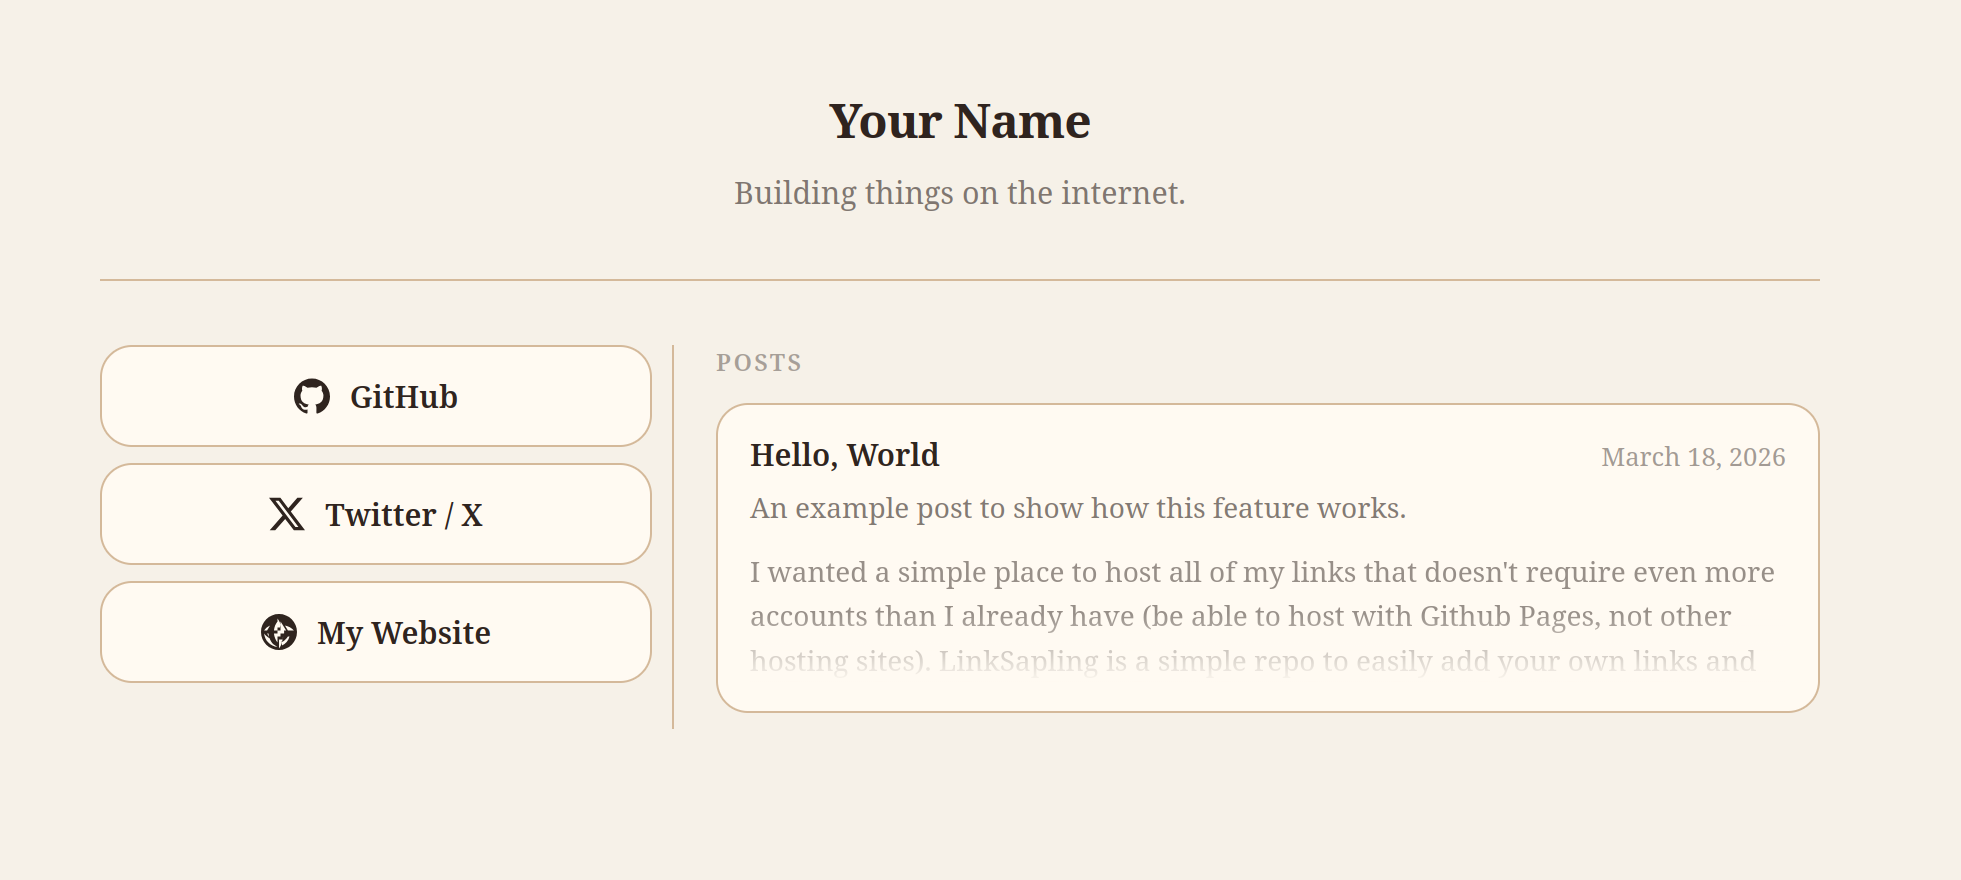
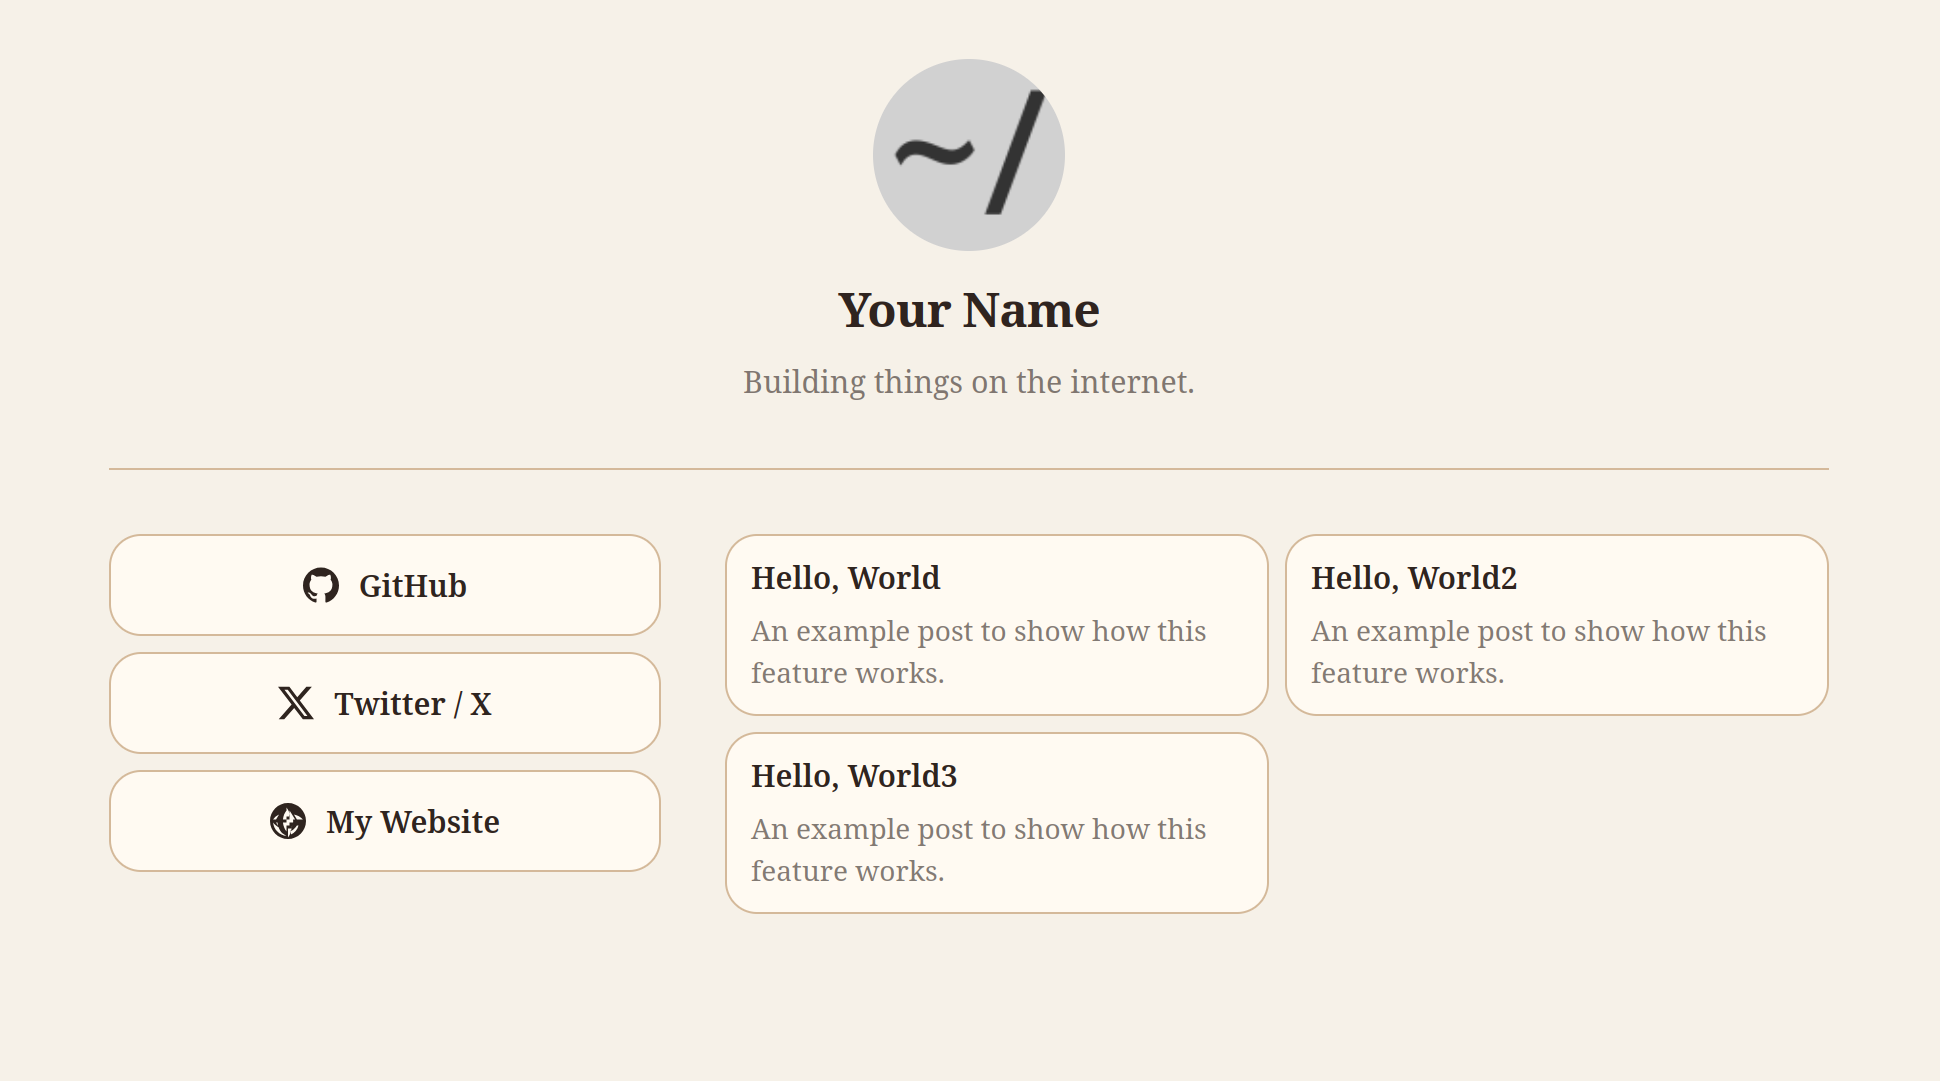
documentation update for layouts

diff --git a/CHANGELOG.md b/CHANGELOG.md
@@ -32,3 +32,11 @@ and this project adheres to [Semantic Versioning](https://semver.org/spec/v2.0.0
 - Google Fonts integration: load any font by name or fall back to system stack
 - Bundled inline SVG icons: github, twitter, instagram, linkedin, youtube, twitch, discord, bluesky, email, globe, rss
 - Avatar support: copies image to `dist/` for self-contained output
+
+
+## [0.2.0] - 2026-03-26
+
+### Added
+
+- Three functional layouts, "links" for only links, "portfolio" for many small posts, "blog" for full sized posts to click into
+- Updated documentation to show new changes and showcase avatar placement as well

diff --git a/README.md b/README.md
@@ -122,7 +122,7 @@ title: "Jane Doe"
 bio: "Designer & maker of things."
 
 # Path to your profile picture, relative to this file (optional)
-avatar: "./avatar.jpg"
+# avatar: ".images/avatar.png"
 
 theme:
   background: "#f6f1e8" # page background
